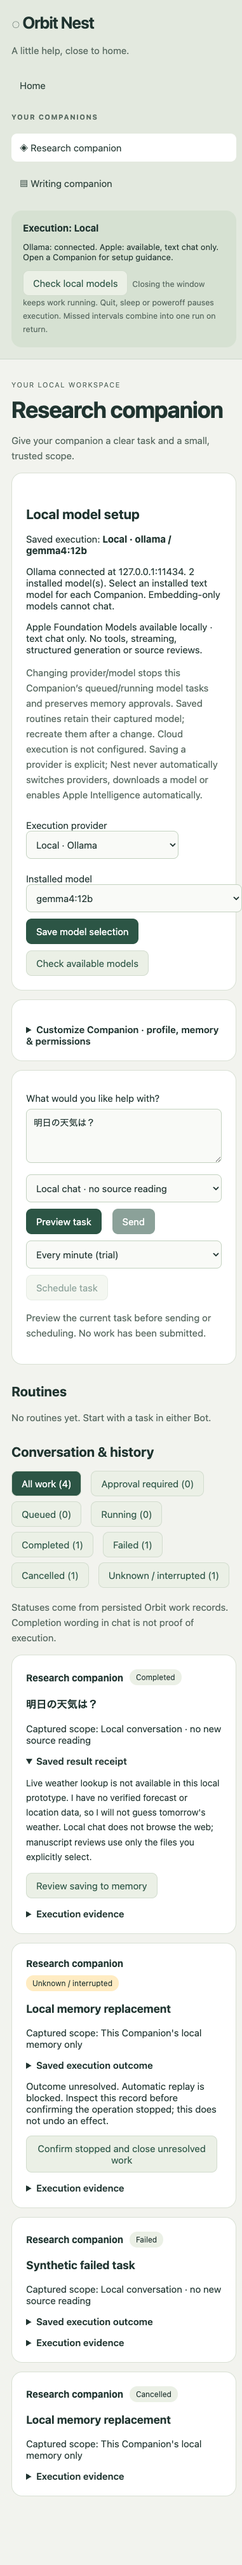
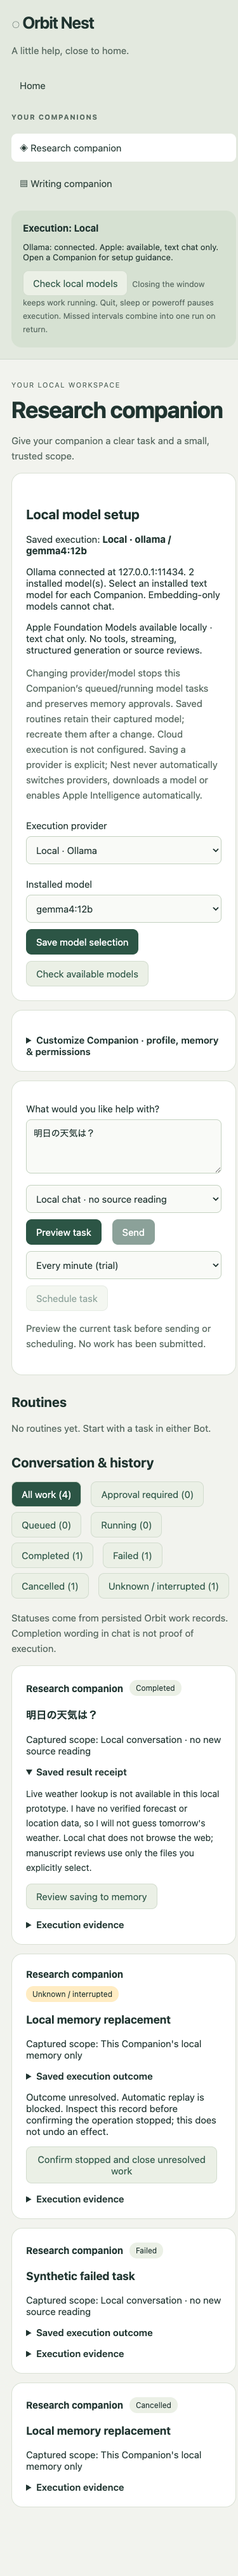
Constrain local model setup controls in narrow windows

diff --git a/test/ui/models.test.ts b/test/ui/models.test.ts
@@ -49,6 +49,28 @@ test("local setup reports inventory and disabled cloud without changing saved pr
 			runs: unknown[];
 		};
 		expect(state.runs).toHaveLength(0);
+		await page.locator("#model").evaluate((select) => {
+			const option = document.createElement("option");
+			option.textContent =
+				"synthetic-missing-model-".repeat(8) +
+				" · unavailable in current inventory";
+			option.disabled = true;
+			option.selected = true;
+			select.appendChild(option);
+		});
+		await app.evaluate(({ BrowserWindow }) =>
+			BrowserWindow.getAllWindows()[0].setSize(390, 844),
+		);
+		await expect
+			.poll(() =>
+				page.evaluate(
+					() => document.documentElement.scrollWidth <= window.innerWidth,
+				),
+			)
+			.toBe(true);
+		await app.evaluate(({ BrowserWindow }) =>
+			BrowserWindow.getAllWindows()[0].setSize(1200, 900),
+		);
 		await page.evaluate(() => window.scrollTo(0, 0));
 		await page.screenshot({ path: "evidence/model-setup.png", fullPage: true });
 	} finally {

diff --git a/src/ui.css b/src/ui.css
@@ -285,3 +285,18 @@ article:focus-visible {
 		flex-basis: 100%;
 	}
 }
+
+.model-setup {
+	overflow-wrap: anywhere;
+}
+.model-setup .row label {
+	flex: 1 1 220px;
+	min-width: 0;
+	max-width: 100%;
+}
+.model-setup select {
+	display: block;
+	width: 100%;
+	min-width: 0;
+	margin-top: 8px;
+}
